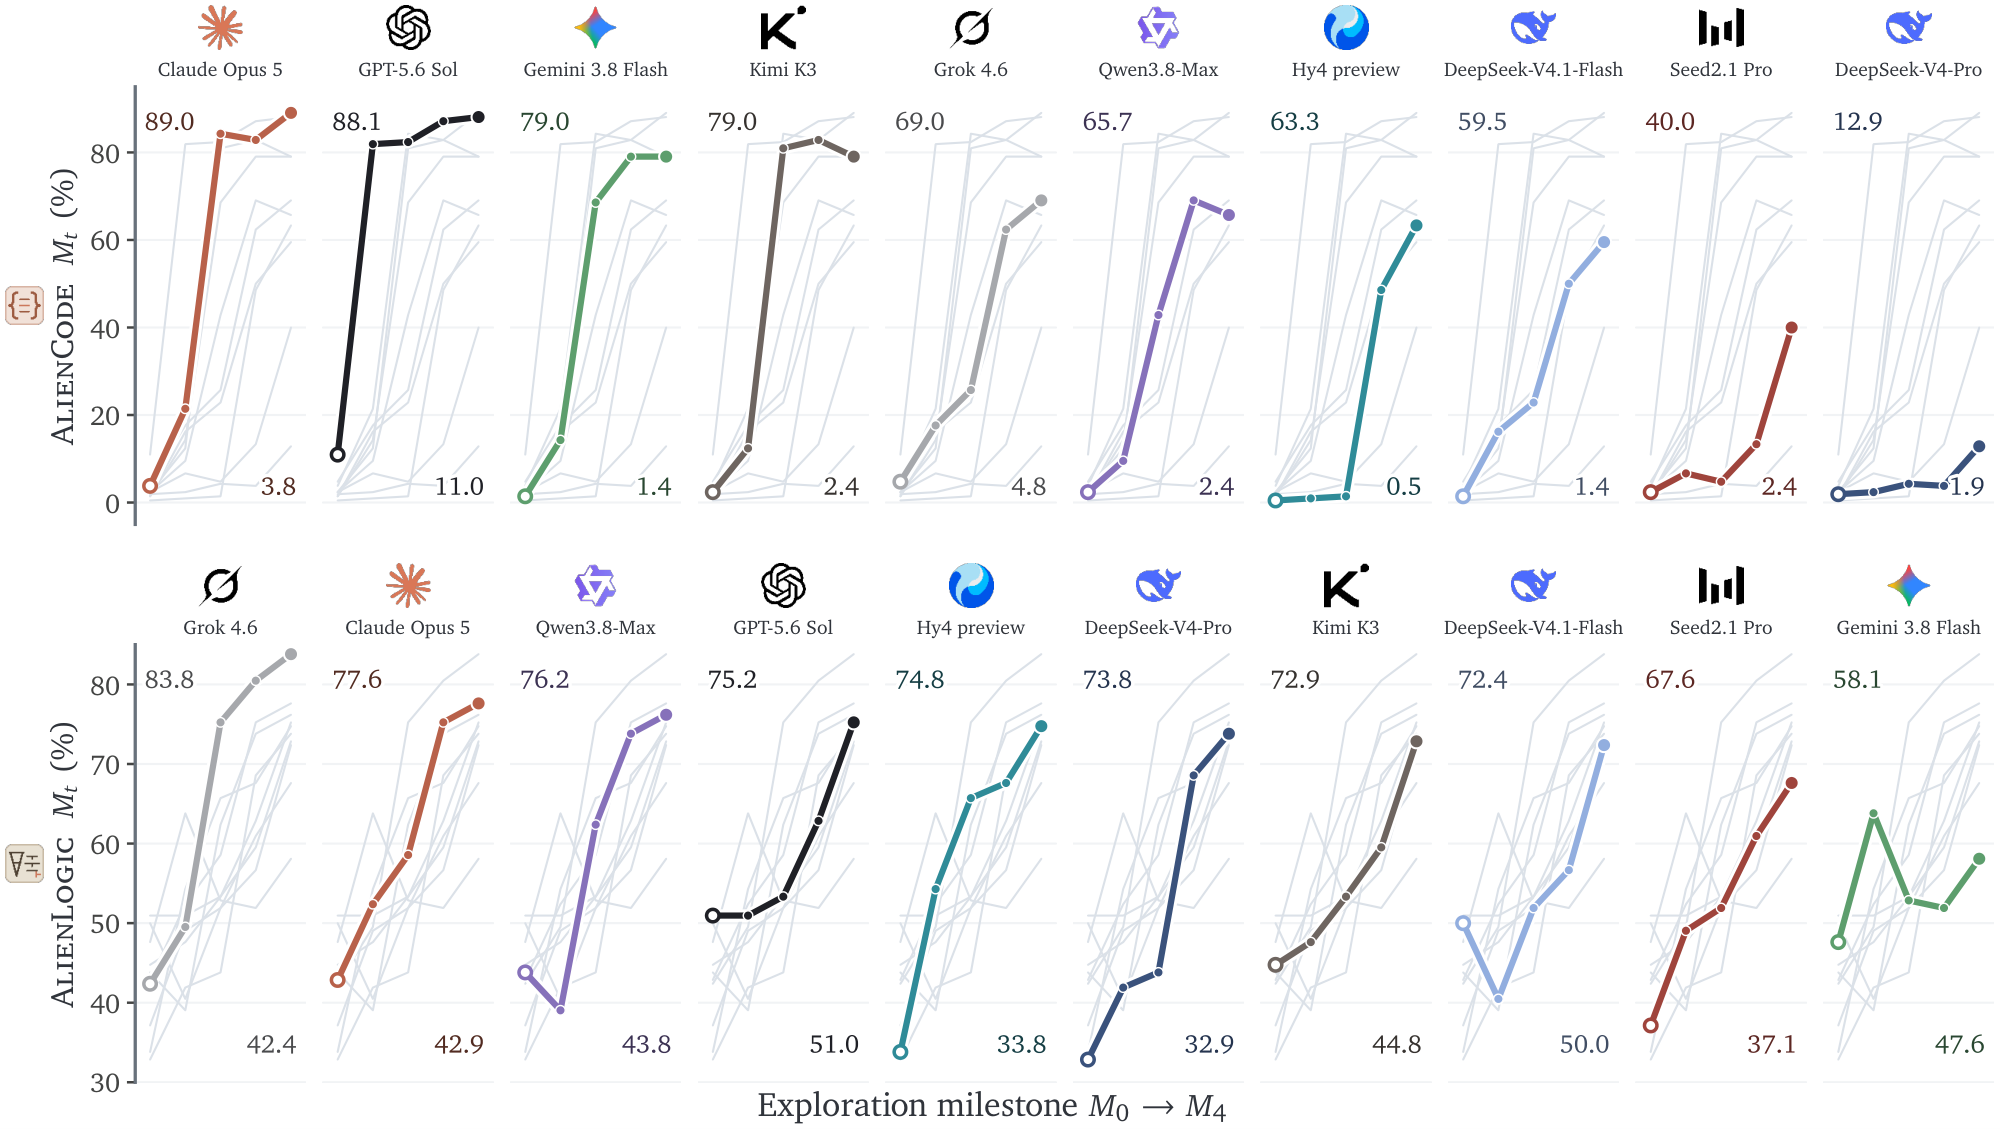
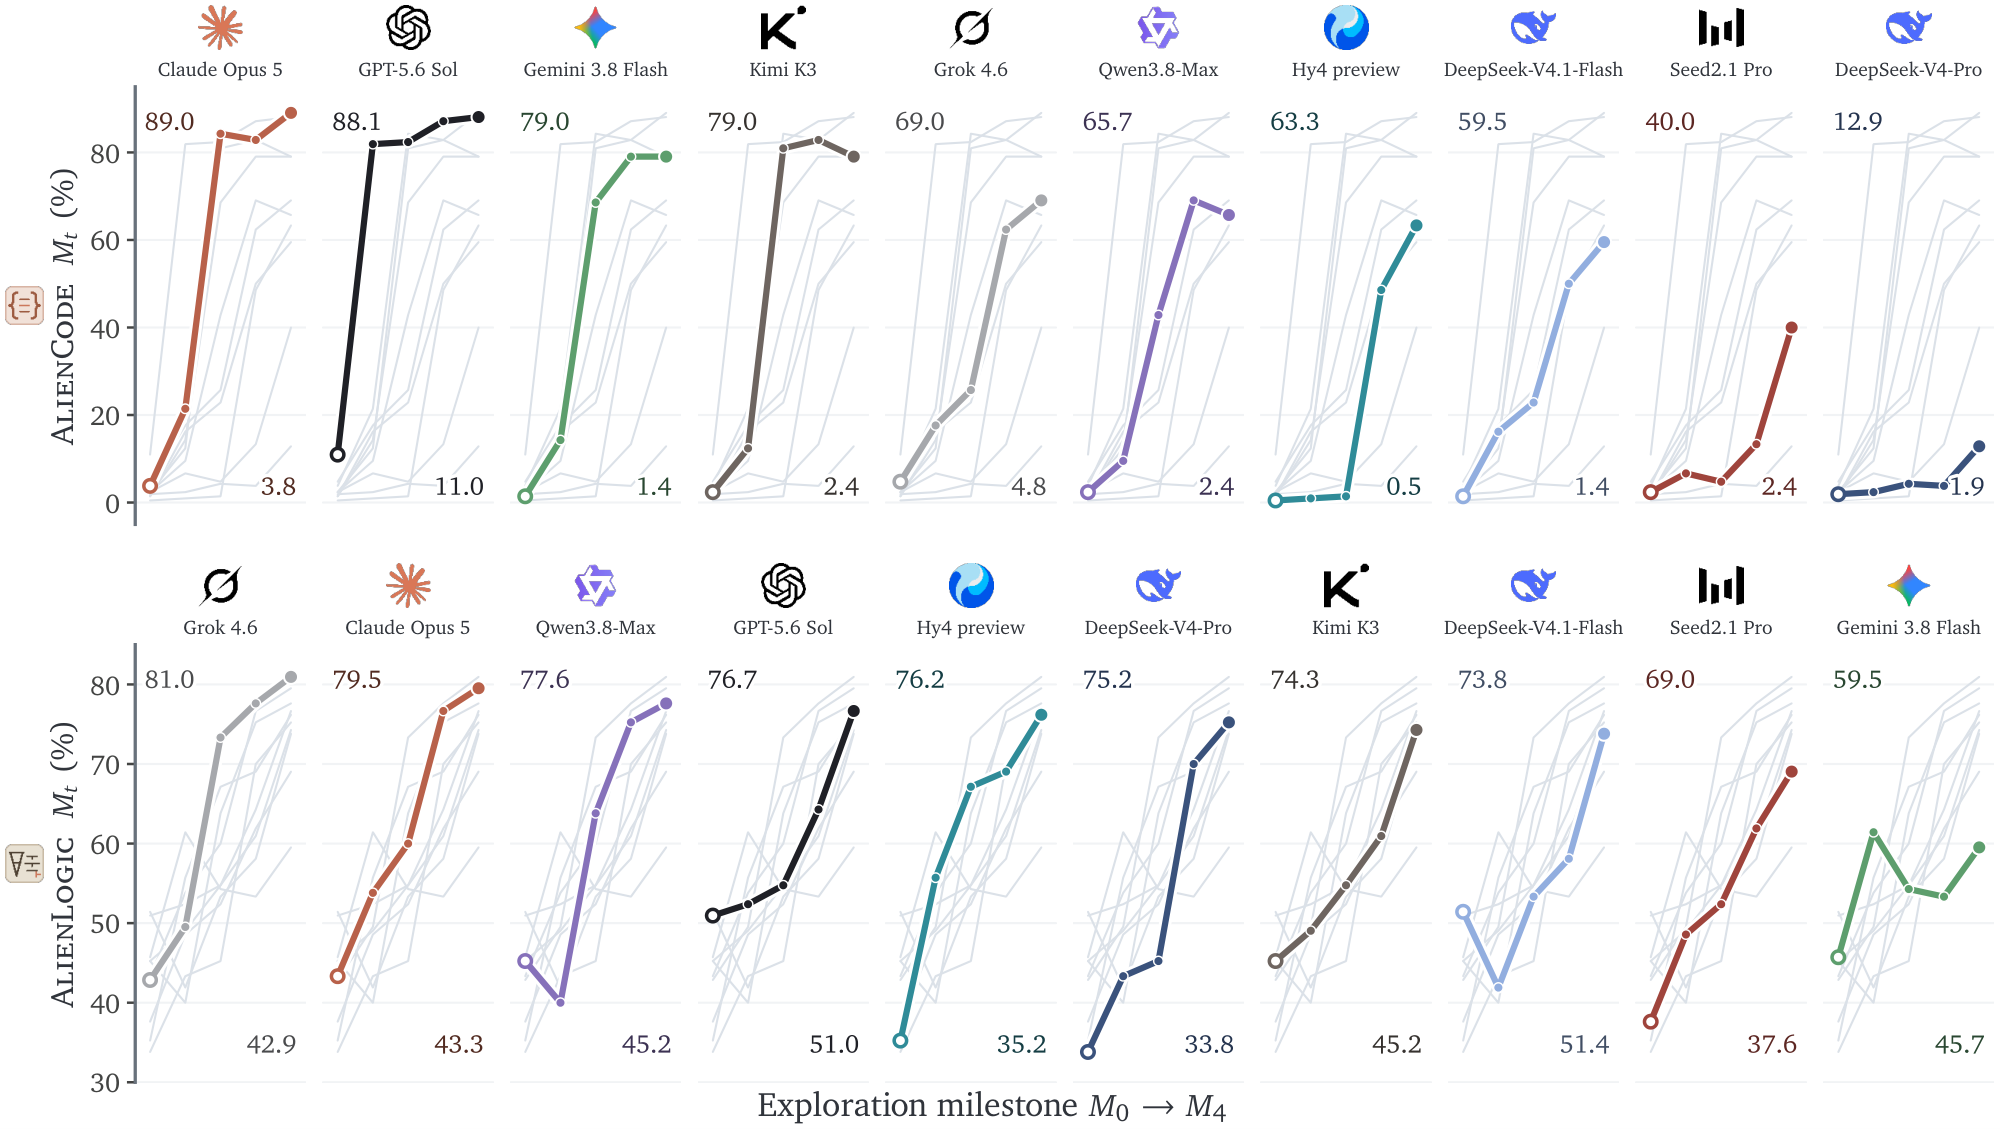
Update the AlienLogic results to arXiv v2
H01 and H13 are provable, and a proof may not declare a premise twice. The leaderboard, the count of unprovable theorems (23) and the trajectories figure follow the regraded runs.

diff --git a/README.md b/README.md
@@ -69,7 +69,7 @@ A system starts from a flawed manual and a fixed set of worked examples. Over fo
 
 **Sandboxes**:
 - **AlienCode** — program synthesis in a small calculation language whose familiar-looking operators follow hidden semantics: `SHATTER` multiplies, `EMIT(100)` prints `127`, and no primitive adds. 31 discovery targets and 70 held-out tasks; each program is graded by an interpreter on five private inputs.
-- **AlienLogic** — formal proof in a first-order natural-deduction system with 24 patched inference rules. 70 held-out theorems, 25 of them unprovable; a proof checker verifies every proof, and an unprovable theorem scores only when the system declines to prove it.
+- **AlienLogic** — formal proof in a first-order natural-deduction system with 24 patched inference rules. 70 held-out theorems, 23 of them unprovable; a proof checker verifies every proof, and an unprovable theorem scores only when the system declines to prove it.
 
 ## 🏆 Leaderboard
 
@@ -94,22 +94,22 @@ Held-out accuracy (%) after four rounds of autonomous exploration (M<sub>4</sub>
 
 | Rank | System | M<sub>0</sub> | Best@3 | Mean@3 |
 |:---:|---|---:|---:|---:|
-| 1 | Grok 4.6 | 42.4 | **83.8** | 72.1 |
-| 2 | Claude Opus 5 | 42.9 | 77.6 | 73.3 |
-| 3 | Qwen3.8-Max | 43.8 | 76.2 | 72.7 |
-| 4 | GPT-5.6 Sol | 51.0 | 75.2 | 73.0 |
-| 5 | Hy4 preview | 33.8 | 74.8 | 67.8 |
-| 6 | DeepSeek-V4-Pro | 32.9 | 73.8 | 65.1 |
-| 7 | Kimi K3 | 44.8 | 72.9 | 67.9 |
-| 8 | DeepSeek-V4.1-Flash | 50.0 | 72.4 | 59.2 |
-| 9 | Seed2.1 Pro | 37.1 | 67.6 | 59.5 |
-| 10 | Gemini 3.8 Flash | 47.6 | 58.1 | 57.6 |
+| 1 | Grok 4.6 | 42.9 | **81.0** | 72.1 |
+| 2 | Claude Opus 5 | 43.3 | 79.5 | 75.9 |
+| 3 | Qwen3.8-Max | 45.2 | 77.6 | 74.3 |
+| 4 | GPT-5.6 Sol | 51.0 | 76.7 | 75.1 |
+| 5 | Hy4 preview | 35.2 | 76.2 | 69.2 |
+| 6 | DeepSeek-V4-Pro | 33.8 | 75.2 | 66.3 |
+| 7 | Kimi K3 | 45.2 | 74.3 | 69.4 |
+| 8 | DeepSeek-V4.1-Flash | 51.4 | 73.8 | 60.6 |
+| 9 | Seed2.1 Pro | 37.6 | 69.0 | 59.8 |
+| 10 | Gemini 3.8 Flash | 45.7 | 59.5 | 59.0 |
 
 ## 💡 Key Findings
 
 - **Exploration, not recall or thinking alone, produces the knowledge the tasks require.** No AlienCode trajectory exceeds 15.7% after the worked examples; after four rounds the best reaches 89.0%. The same number of rounds without environment feedback stays at 0.5–11.0%.
 - **Exploration works best when the system designs its own experiments.** Replaying a system's own best probes to it gives it exactly the same evidence, yet in AlienCode autonomous exploration still does better for 9 of 10 systems, by a median of 17.4 points.
-- **The two worlds get stuck in different places.** In AlienLogic, being told the rules yields 93–97%, above every system's best trajectory, so discovery is the bottleneck. In AlienCode, the best trajectory beats being told the rules up front for 7 of 10 systems, so using the rules is.
+- **The two worlds get stuck in different places.** In AlienLogic, being told the rules yields 96–100%, above every system's best trajectory, so discovery is the bottleneck. In AlienCode, the best trajectory beats being told the rules up front for 7 of 10 systems, so using the rules is.
 - **Knowing a rule does not guarantee using it correctly.** Tasks whose required rules the final rule report states correctly are still solved only 73.4% of the time.
 - **A single score hides a lot.** One system's trajectories under the same budget can end tens of points apart (Kimi K3: 5.7–79.0% in AlienCode), a system's rank in one world barely predicts its rank in the other (Spearman 0.35), and gains arrive in leaps that later rounds can undo.
 
@@ -125,7 +125,7 @@ A world whose rules are public measures recall instead of exploration, so the ru
 | | Demo world (released) | Evaluation world (private) |
 |---|---|---|
 | AlienCode | 5 discovery targets · 4 worked examples · 5 held-out tasks | 31 discovery targets · 70 held-out tasks |
-| AlienLogic | 3 side conditions · 5 worked examples · 5 held-out theorems (1 unprovable) | 24 patched rules · 70 held-out theorems (25 unprovable) |
+| AlienLogic | 3 side conditions · 5 worked examples · 5 held-out theorems (1 unprovable) | 24 patched rules · 70 held-out theorems (23 unprovable) |
 
 To evaluate a model on the private worlds, see [Evaluate Your Model](#-evaluate-your-model).
 

diff --git a/README_CN.md b/README_CN.md
@@ -69,7 +69,7 @@
 
 **沙盒**：
 - **AlienCode**：在一门小型计算语言中做程序合成。它的运算符看起来很熟悉，语义却是隐藏的：`SHATTER`执行的是乘法，`EMIT(100)`打印出`127`，而且没有任何原语能做加法。共31个发现目标和70道留出题；每个程序都由解释器在五组私有输入上判分。
-- **AlienLogic**：在一阶自然演绎系统中做形式化证明，其中24条推理规则被修改过。共70道留出定理，其中25道不可证；每个证明都由证明检查器验证，不可证定理只有在系统拒绝证明时才得分。
+- **AlienLogic**：在一阶自然演绎系统中做形式化证明，其中24条推理规则被修改过。共70道留出定理，其中23道不可证；每个证明都由证明检查器验证，不可证定理只有在系统拒绝证明时才得分。
 
 ## 🏆 排行榜
 
@@ -94,22 +94,22 @@
 
 | 排名 | 系统 | M<sub>0</sub> | Best@3 | Mean@3 |
 |:---:|---|---:|---:|---:|
-| 1 | Grok 4.6 | 42.4 | **83.8** | 72.1 |
-| 2 | Claude Opus 5 | 42.9 | 77.6 | 73.3 |
-| 3 | Qwen3.8-Max | 43.8 | 76.2 | 72.7 |
-| 4 | GPT-5.6 Sol | 51.0 | 75.2 | 73.0 |
-| 5 | Hy4 preview | 33.8 | 74.8 | 67.8 |
-| 6 | DeepSeek-V4-Pro | 32.9 | 73.8 | 65.1 |
-| 7 | Kimi K3 | 44.8 | 72.9 | 67.9 |
-| 8 | DeepSeek-V4.1-Flash | 50.0 | 72.4 | 59.2 |
-| 9 | Seed2.1 Pro | 37.1 | 67.6 | 59.5 |
-| 10 | Gemini 3.8 Flash | 47.6 | 58.1 | 57.6 |
+| 1 | Grok 4.6 | 42.9 | **81.0** | 72.1 |
+| 2 | Claude Opus 5 | 43.3 | 79.5 | 75.9 |
+| 3 | Qwen3.8-Max | 45.2 | 77.6 | 74.3 |
+| 4 | GPT-5.6 Sol | 51.0 | 76.7 | 75.1 |
+| 5 | Hy4 preview | 35.2 | 76.2 | 69.2 |
+| 6 | DeepSeek-V4-Pro | 33.8 | 75.2 | 66.3 |
+| 7 | Kimi K3 | 45.2 | 74.3 | 69.4 |
+| 8 | DeepSeek-V4.1-Flash | 51.4 | 73.8 | 60.6 |
+| 9 | Seed2.1 Pro | 37.6 | 69.0 | 59.8 |
+| 10 | Gemini 3.8 Flash | 45.7 | 59.5 | 59.0 |
 
 ## 💡 主要发现
 
 - **任务所需的知识来自探索，而不是回忆或单纯的思考**。读完固定示例后，AlienCode中没有任何轨迹超过15.7%；四轮之后，最好的轨迹达到89.0%。同样的轮数如果没有环境反馈，准确率只有0.5–11.0%。
 - **系统自己设计实验时，探索的效果最好**。把系统自己最好的探针回放给它，它拿到的证据完全相同；但在AlienCode中，10个系统里仍有9个在自主探索时表现更好，中位差为17.4个百分点。
-- **两个世界卡在不同的地方**。在AlienLogic中，直接告知规则就能达到93–97%，高于每个系统的最好轨迹，所以瓶颈在于发现规则。在AlienCode中，10个系统里有7个的最好轨迹超过了一开始就告知规则的成绩，所以瓶颈在于运用规则。
+- **两个世界卡在不同的地方**。在AlienLogic中，直接告知规则就能达到96–100%，高于每个系统的最好轨迹，所以瓶颈在于发现规则。在AlienCode中，10个系统里有7个的最好轨迹超过了一开始就告知规则的成绩，所以瓶颈在于运用规则。
 - **知道规则不等于能正确运用规则**。即使最终的规则报告把某道题需要的规则全都说对了，这些题也只有73.4%能被解出。
 - **单一分数掩盖了很多信息**。在相同预算下，同一个系统的几条轨迹最终可能相差几十个百分点（Kimi K3在AlienCode中为5.7–79.0%）；一个系统在一个世界中的排名，几乎无法预测它在另一个世界中的排名（Spearman相关系数为0.35）；而且进步是跃迁式的，后面的轮次还可能把它抹掉。
 
@@ -125,7 +125,7 @@
 | | 演示世界（公开） | 评测世界（不公开） |
 |---|---|---|
 | AlienCode | 5个发现目标、4个示例、5道留出题 | 31个发现目标、70道留出题 |
-| AlienLogic | 3条侧条件、5个示例、5道留出定理（1道不可证） | 24条修改过的规则、70道留出定理（25道不可证） |
+| AlienLogic | 3条侧条件、5个示例、5道留出定理（1道不可证） | 24条修改过的规则、70道留出定理（23道不可证） |
 
 如需在不公开的评测世界上评测模型，请见[评测你的模型](#-评测你的模型)。
 
